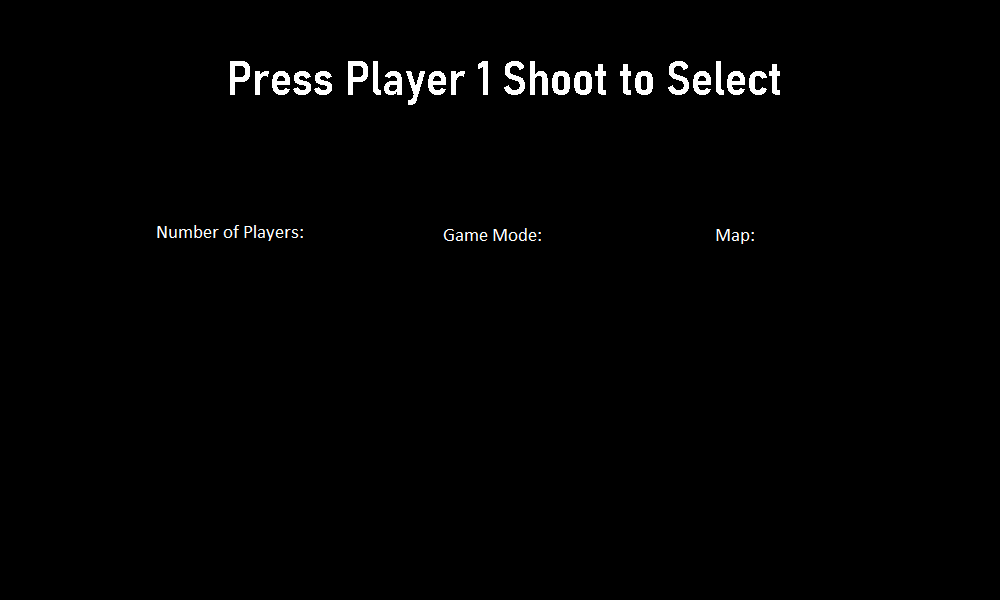
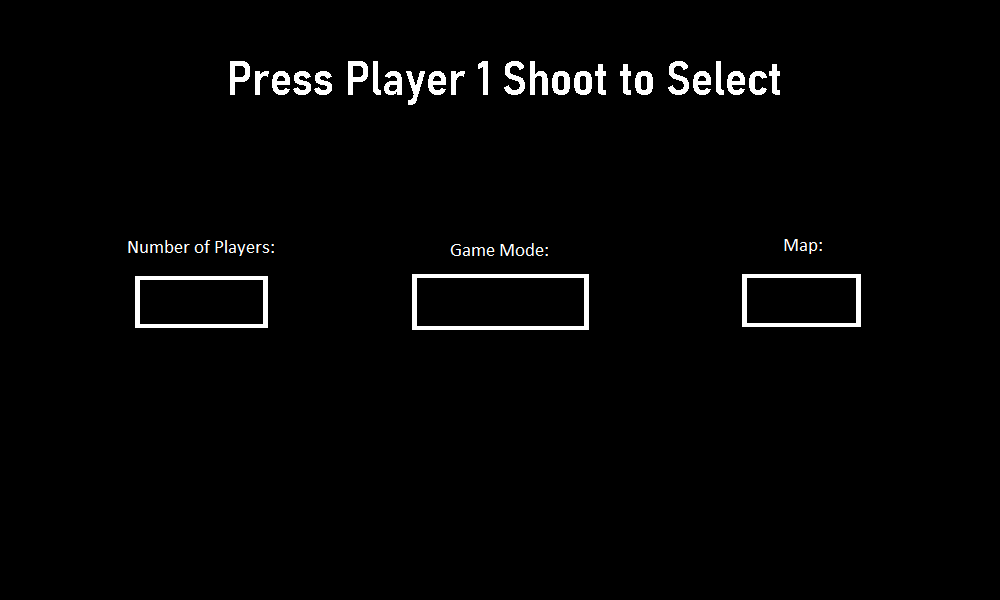
Added white square things to slect screen

diff --git a/main.py b/main.py
@@ -10,6 +10,7 @@ from selection_func import *
 
 pygame.init()
 
+PRESS_TIME = float(config['DEFAULTS']['PRESS_TIME'])
 #have to init font for words
 font = pygame.font.SysFont(None, 25)
 
@@ -91,43 +92,52 @@ while running:
         screen.blit(pygame.image.load("images/selection_background.png"), (0,0))
 
         if select_state == "player":
-            #select between 2 or 4 players
-            if allControls[0]['up'] and numPlayers < 4:
-                numPlayers+=2
-            
-            elif allControls[0]['down'] and numPlayers > 2:
-                numPlayers-=2
+            if press_count > PRESS_TIME:
+                #select between 2 or 4 players
+                if allControls[0]['up'] and numPlayers < 4:
+                    numPlayers+=1
+                    press_count = 0
+                
+                elif allControls[0]['down'] and numPlayers > 2:
+                    numPlayers-=1
+                    press_count = 0
 
-            if select(allControls, press_count): #on the shoot press move to slection
-                select_state = "mode"
-                press_count = 0
-        
+                if allControls[0]['shoot']: #on the shoot press move on
+                    select_state = "mode"
+                    press_count = 0
+
         if select_state == "mode":
-            
-            if allControls[0]['up'] and modeIndex < len(modes)-1:
-                modeIndex+=1
-            
-            elif allControls[0]['down'] and modeIndex > 0:
-                modeIndex-=1
+            if press_count > PRESS_TIME:
+                if allControls[0]['up'] and modeIndex < len(modes)-1:
+                    modeIndex+=1
+                    press_count = 0
+                
+                elif allControls[0]['down'] and modeIndex > 0:
+                    modeIndex-=1
+                    press_count = 0
 
-            if select(allControls, press_count): #on the coin press move to slection
-                select_state = "level"
-                press_count = 0
+                if allControls[0]['shoot']: #on the coin press move on
+                    select_state = "level"
+                    press_count = 0
 
         if select_state == "level":
-            if allControls[0]['up'] and levelNum < NUM_LEVELS-1:
-                levelNum+=1
-            
-            elif allControls[0]['down'] and levelNum > 0:
-                levelNum-=1
+            if press_count > PRESS_TIME:
+                if allControls[0]['up'] and levelNum < NUM_LEVELS-1:
+                    levelNum+=1
+                    press_count = 0
 
-            if select(allControls, press_count): #on the coin press move to slection
-                select_state = "player"
-                state = "init"
-                press_count = 0
+                elif allControls[0]['down'] and levelNum > 0:
+                    levelNum-=1
+                    press_count = 0
 
-        print(select_state)
+                if allControls[0]['shoot']: #on the coin press move on
+                    select_state = "player"
+                    state = "init"
+                    press_count = 0    
+
         press_count+=1
+
+        drawBlackRects(screen, select_state)
 
         drawAllText(screen, font, WIDTH, HEIGHT, numPlayers, modes[modeIndex], levelNum)
 
@@ -147,12 +157,12 @@ while running:
 
         drawAll(screen, font, bullets, players, hats, platforms, explosionPieces)
 
-        #press the low thumb joy to return to the start
-        if allControls[0]['back']:
-            state = "start"
+        state = updateState(allControls, modes[modeIndex])
 
     if state == "Team Deathmatch":
-        print("team")
+        screen.fill((0,0,255))
+        state = updateState(allControls, modes[modeIndex])
+
     # Update the display
     pygame.display.flip()
 

diff --git a/selection_func.py b/selection_func.py
@@ -34,15 +34,43 @@ def makePlatforms(platforms, levelNum):
     
     print("platforms: " + str(platforms))
 
-def select(allControls, press_count):
-	if allControls[0]['shoot'] and press_count > PRESS_TIME:
-		return True
-	else:
-		return False
+def updateState(allControls, mode):
+	#press the low thumb joy to return to the start
+    if allControls[0]['back']:
+        return "start"
+    else:
+    	return mode
+def drawBlackRects(screen, state):
+	"Draws black squares over the pieces we dont want, gives the appearence of the white encircling squares"
+	yPos = 270
+
+	player_rect = pygame.Rect(100, yPos, 200, 70)
+	mode_rect = pygame.Rect(400, yPos, 200, 70)
+	level_rect = pygame.Rect(700, yPos, 200, 70)
+
+	if state != "player":
+		pygame.draw.rect(screen, (0,0,0), player_rect)
+
+	if state != "mode":
+		pygame.draw.rect(screen, (0,0,0), mode_rect)
+		
+	if state != "level":
+		pygame.draw.rect(screen, (0,0,0), level_rect)
 
 def drawAllText(screen, font, WIDTH, HEIGHT, numPlayers, gameMode, levelNum):
-	screen.blit(font.render(str(numPlayers), True, (255,255,255)),(200, HEIGHT/2))#print num players
 
-	screen.blit(font.render(str(gameMode), True, (255,255,255)),(WIDTH/2, HEIGHT/2))#print gamemode
+	#print num players
+	text = font.render(str(numPlayers), True, (255,255,255))
+	text_rect = text.get_rect(center=(200, HEIGHT/2))
+	screen.blit(text,text_rect)
 
-	screen.blit(font.render(str(levelNum), True, (255,255,255)),(WIDTH-200, HEIGHT/2))#print level num
+	#print game mode
+	text = font.render(str(gameMode), True, (255,255,255))
+	text_rect = text.get_rect(center=(WIDTH/2, HEIGHT/2))
+	screen.blit(text,text_rect)
+
+	#print level num
+	text = font.render(str(levelNum), True, (255,255,255))
+	text_rect = text.get_rect(center=(WIDTH-200, HEIGHT/2))
+	screen.blit(text,text_rect)
+	

diff --git a/stick_men_func.py b/stick_men_func.py
@@ -12,6 +12,7 @@ JOY_BTN_WEST = 2
 JOY_BTN_CENTER = 4
 JOY_BTN_COIN = 0
 JOY_BTN_PLAYER = 1
+JOY_BTN_THUMB = 7
 
 def getControls(i, joys, useJoys):
     "Return the controls the player will use"
@@ -37,7 +38,7 @@ def getControls(i, joys, useJoys):
                             'left': pressed_keys[pygame.K_j], 'right': pressed_keys[pygame.K_l],
                             'shoot': pressed_keys[pygame.K_o]}
         
-        #then after the different controls we add the two controls that are used regardless of what player.
+        #then after the different controls we add the controls that are used regardless of what player.
         controls['player'] = pressed_keys[pygame.K_p]
         controls['coin'] = pressed_keys[pygame.K_c]
         controls['back'] = pressed_keys[pygame.K_b]
@@ -51,7 +52,7 @@ def getControls(i, joys, useJoys):
         controls = {'up': j.get_axis(1) > .8, 'down': j.get_axis(0) < .8, 'left': j.get_axis(0) > .8, 
                         'right': j.get_axis(0) < -.8, 'shoot': j.get_button(JOY_BTN_CENTER), 
                         'player': j.get_button(JOY_BTN_PLAYER), 'coin': j.get_button(JOY_BTN_COIN), 
-                        'back': j.get_button(7)}
+                        'back': j.get_button(JOY_BTN_THUMB)}
 
     return controls
 
